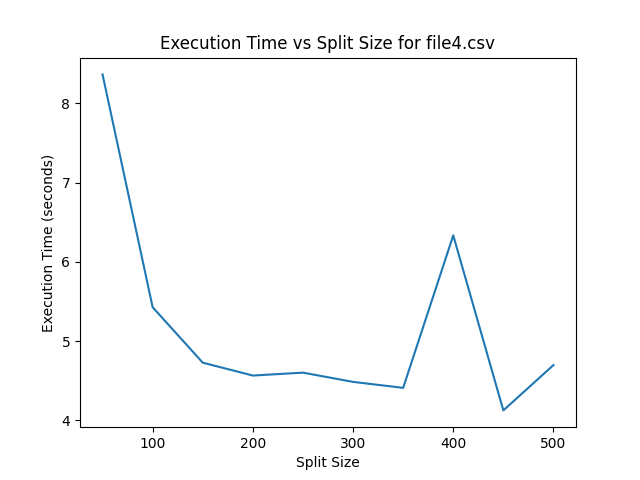
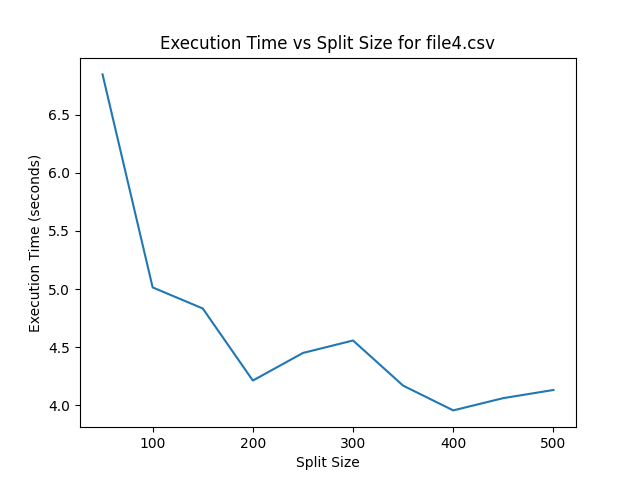
readme updated

diff --git a/main.py b/main.py
@@ -87,6 +87,10 @@ execution_time = []
 num_records = []
 
 # Split each file into smaller chunks and apply the ETL process through multithreading pipeline
+import pandas as pd
+from IPython.display import display
+results = pd.DataFrame(columns=['File', 'Split Size', 'Execution Time'])
+
 for file in files:
     execution_time_file = []
     for chunk_size in range(50, 550, 50):
@@ -98,9 +102,14 @@ for file in files:
         # Compute the execution time and number of records for the transformed data
         execution_time_file.append(end_time - start_time)
 
+        # Store the results in the DataFrame
+        results = results.append({'File': file, 'Split Size': chunk_size, 'Execution Time': end_time - start_time}, ignore_index=True)
+        results.to_csv('results.csv', index=False)
+
     # Plot the execution time for the current file
     plt.plot(range(50, 550, 50), execution_time_file)
     plt.xlabel('Split Size')
     plt.ylabel('Execution Time (seconds)')
     plt.title(f'Execution Time vs Split Size for {file}')
     plt.show()
+

diff --git a/README.md b/README.md
@@ -41,7 +41,72 @@ This will execute the ETL system for each file in the `files` list and plot the 
 
 The split size with minimum execution time is the best size for splitting the sample into chunks.
 
-## Results
+## Results Table
+
+| File      | Split Size | Execution Time      |
+| --------- | ---------- | ------------------- |
+| file1.csv | 50         | 0.20094585418701172 |
+| file1.csv | 100        | 0.17827415466308594 |
+| file1.csv | 150        | 0.17514681816101074 |
+| file1.csv | 200        | 0.15340137481689453 |
+| file1.csv | 250        | 0.14460349082946777 |
+| file1.csv | 300        | 0.15040111541748047 |
+| file1.csv | 350        | 0.20209717750549316 |
+| file1.csv | 400        | 0.17236852645874023 |
+| file1.csv | 450        | 0.16457366943359375 |
+| file1.csv | 500        | 0.1421055793762207  |
+| file2.csv | 50         | 2.307406187057495   |
+| file2.csv | 100        | 1.7599732875823975  |
+| file2.csv | 150        | 1.4923429489135742  |
+| file2.csv | 200        | 1.5830867290496826  |
+| file2.csv | 250        | 1.8552417755126953  |
+| file2.csv | 300        | 1.5105571746826172  |
+| file2.csv | 350        | 1.3557870388031006  |
+| file2.csv | 400        | 1.3610191345214844  |
+| file2.csv | 450        | 1.5442559719085693  |
+| file2.csv | 500        | 1.4554626941680908  |
+| file3.csv | 50         | 25.979108810424805  |
+| file3.csv | 100        | 4.078745126724243   |
+| file3.csv | 150        | 2.9466161727905273  |
+| file3.csv | 200        | 2.94527268409729    |
+| file3.csv | 250        | 2.74124813079834    |
+| file3.csv | 300        | 2.905269145965576   |
+| file3.csv | 350        | 2.7017886638641357  |
+| file3.csv | 400        | 2.9900853633880615  |
+| file3.csv | 450        | 2.593247175216675   |
+| file3.csv | 500        | 3.298258066177368   |
+| file4.csv | 50         | 6.847970962524414   |
+| file4.csv | 100        | 5.013974666595459   |
+| file4.csv | 150        | 4.832691192626953   |
+| file4.csv | 200        | 4.212059020996094   |
+| file4.csv | 250        | 4.449608564376831   |
+| file4.csv | 300        | 4.556971788406372   |
+| file4.csv | 350        | 4.168123006820679   |
+| file4.csv | 400        | 3.955108404159546   |
+| file4.csv | 450        | 4.06095290184021    |
+| file4.csv | 500        | 4.1308183670043945  |
+| file5.csv | 50         | 9.166467428207397   |
+| file5.csv | 100        | 6.776137351989746   |
+| file5.csv | 150        | 6.431054353713989   |
+| file5.csv | 200        | 5.924649000167847   |
+| file5.csv | 250        | 6.377595901489258   |
+| file5.csv | 300        | 6.412623643875122   |
+| file5.csv | 350        | 5.8309972286224365  |
+| file5.csv | 400        | 6.2015626430511475  |
+| file5.csv | 450        | 5.77849555015564    |
+| file5.csv | 500        | 5.95037579536438    |
+| file6.csv | 50         | 11.803784608840942  |
+| file6.csv | 100        | 8.365172863006592   |
+| file6.csv | 150        | 7.54716157913208    |
+| file6.csv | 200        | 8.14978551864624    |
+| file6.csv | 250        | 7.742202997207642   |
+| file6.csv | 300        | 7.056695938110352   |
+| file6.csv | 350        | 7.406182289123535   |
+| file6.csv | 400        | 7.655244588851929   |
+| file6.csv | 450        | 7.796271800994873   |
+| file6.csv | 500        | 7.806875467300415   |
+
+## Visual Plots
 
 The plot of split size vs execution time for the different files are as shown.
 
